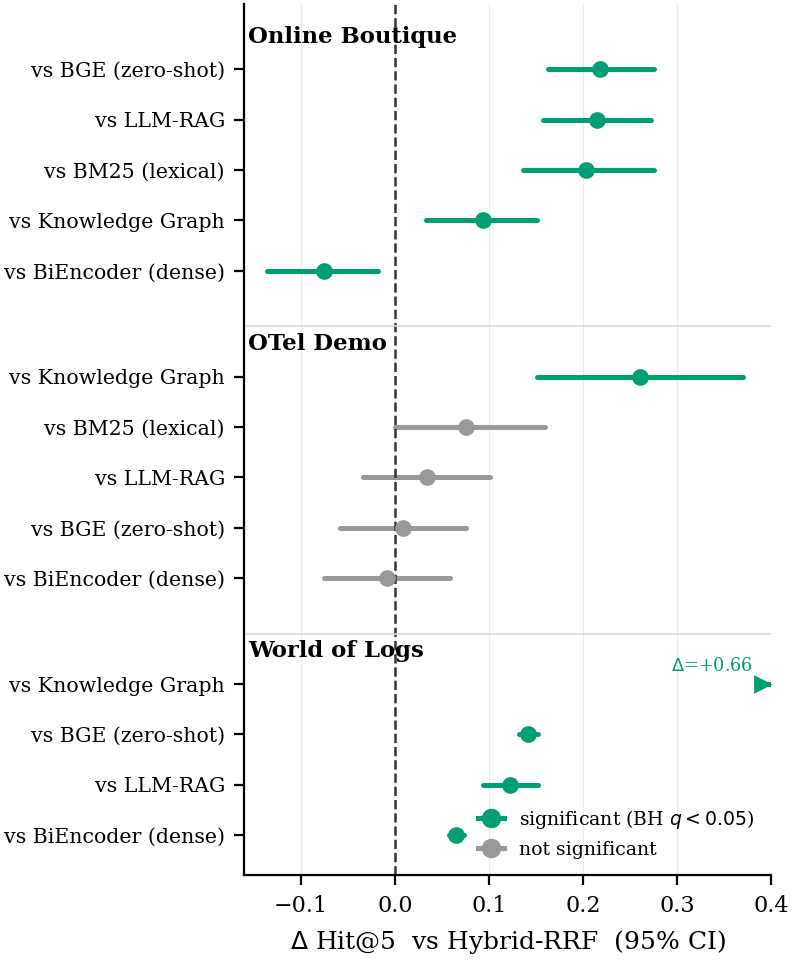
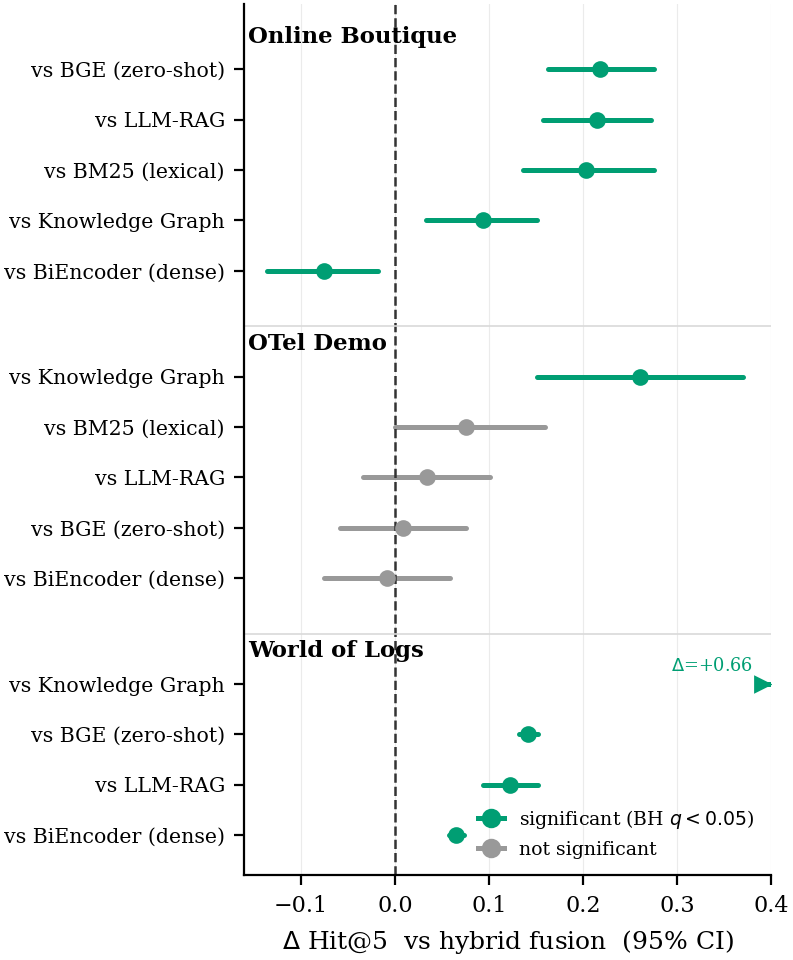
v2: concrete formalism, windowing rationale, training/inference, naming
R3's remaining clarity complaints.

"it's never clear where the incident comes from ... I assume it is a jira ticket"
-- it is, and the paper never said so. Section III now states what the objects
are before any notation: a memory item IS a resolved issue-tracker ticket (a
real Apache Jira Bug/Fixed issue on the real corpus, with its pasted log and
stack-trace blocks as the retrievable document), and a query is either a
five-minute telemetry slice or the incident report itself. The symbols d_j, E_j,
tau_j are now grounded in those objects.

"Why a windowed approach? Why not continuous?" -- answered: M_{<t} is already
continuous in t and nothing in retrieval depends on a window boundary. We window
because that is the granularity at which ground truth exists; a continuous
formulation would need continuous supervision we cannot obtain. Windowing is a
property of the evaluation, not of the method.

"Fine-tuning ... is it done per incident? is that learned network passed on to
the next?" -- no, and the paper was ambiguous. New paragraph states that all
learning is offline and once per dataset, the model is frozen for every test
query, and no state or gradients pass between incidents. Also separates what is
and is not deterministic, so the multi-seed treatment has a stated rationale
instead of a fixed-seed assertion.

Adds the seed-vs-sampling variance decomposition: the seed contributes ~1% of
variance on OTel Demo but ~a third on Online Boutique, where a query-resampling
[…]

Changed region(s): [[0.3632, 0.9688, 0.9382, 1.0]]

diff --git a/scripts/research-lab/make_paper_figures.py b/scripts/research-lab/make_paper_figures.py
@@ -113,8 +113,8 @@ def fig_significance_forest():
                 ha="left", va="center")
     ax.set_yticks(yt); ax.set_yticklabels(ytl, fontsize=7.4)
     ax.set_ylim(-0.8, y - 0.8); ax.set_xlim(xmin, xmax)
-    ax.set_xlabel(r"$\Delta$ \,Hit@5  vs Hybrid-RRF  (95\% CI)" if matplotlib.rcParams["text.usetex"]
-                  else r"$\Delta$ Hit@5  vs Hybrid-RRF  (95% CI)")
+    ax.set_xlabel(r"$\Delta$ \,Hit@5  vs hybrid fusion  (95\% CI)" if matplotlib.rcParams["text.usetex"]
+                  else r"$\Delta$ Hit@5  vs hybrid fusion  (95% CI)")
     ax.plot([], [], "o-", color=C["good"], lw=1.8, label="significant (BH $q<0.05$)")
     ax.plot([], [], "o-", color=C["prior"], lw=1.8, label="not significant")
     ax.legend(frameon=False, loc="lower right", fontsize=6.8, handlelength=1.4)
@@ -123,31 +123,60 @@ def fig_significance_forest():
 
 
 def fig_triage_reframing():
-    """The reframing (RQ4): classifier ROC-AUC is saturated on synthetic, exactly
-    at chance (0.50) on real data.
+    """The reframing (RQ4): triage classification is saturated on injected
+    telemetry and only weakly learnable on real ticket text.
 
-    We plot ROC-AUC, for which 0.5 is the correct no-skill baseline (the previous
-    version drew a 0.5 'chance' line under PR-AUC, whose no-skill baseline is the
-    positive prevalence, not 0.5). PR-AUC values are annotated for completeness.
+    The earlier version of this figure plotted the WoL numeric classifiers at
+    ROC-AUC 0.50 and drew a "chance" line under them. That comparison was void:
+    those classifiers were fitted on the 94 telemetry feature columns, which are
+    zero-filled for a text-only corpus, so 0.50 was forced by a constant design
+    matrix rather than measured. We now plot the telemetry classifier for the
+    synthetic datasets and the best TEXT classifier for World of Logs -- the
+    input each corpus actually has -- with its bootstrap CI.
     """
-    roc, pr = [], []
+    roc, pr, err, note = [], [], [], []
     for d in DS:
-        rep = _load(PR / "triage-leaderboard" / d / "report.json")
-        h = (rep or {}).get("headline", {}).get("hist_gradient_boosting_numeric", {})
-        roc.append(h.get("triage.roc_auc", np.nan))
-        pr.append(h.get("triage.pr_auc", np.nan))
+        if d == "wol-v3":
+            t = _load(Path("paper-results-v2") / "triage-text" / "wol-v3"
+                      / "wol-text-triage-paper.json")
+            if not t:
+                roc.append(np.nan); pr.append(np.nan); err.append(0.0); note.append("")
+                continue
+            models = {k: v for k, v in t["summary"].items() if k != "majority_baseline"}
+            best = max(models.items(), key=lambda kv: kv[1]["roc_auc"]["mean"])
+            m = best[1]
+            lo, hi = m["roc_auc"]["ci95"]
+            roc.append(m["roc_auc"]["mean"]); pr.append(m["pr_auc"]["mean"])
+            err.append((m["roc_auc"]["mean"] - lo, hi - m["roc_auc"]["mean"]))
+            note.append("text")
+        else:
+            rep = _load(PR / "triage-leaderboard" / d / "report.json")
+            h = (rep or {}).get("headline", {}).get("hist_gradient_boosting_numeric", {})
+            roc.append(h.get("triage.roc_auc", np.nan))
+            pr.append(h.get("triage.pr_auc", np.nan))
+            err.append((0.0, 0.0)); note.append("telemetry")
+
     fig, ax = plt.subplots(figsize=(3.3, 2.5))
     x = np.arange(len(DS))
-    colors = [C["ours"] if (v == v and v > 0.6) else C["bad"] for v in roc]
-    bars = ax.bar(x, roc, 0.58, color=colors, edgecolor="black", linewidth=0.3)
+    colors = [C["ours"] if (v == v and v > 0.8) else C["graph"] for v in roc]
+    ax.bar(x, roc, 0.58, color=colors, edgecolor="black", linewidth=0.3)
+    yerr = np.array([[e[0] for e in err], [e[1] for e in err]])
+    ax.errorbar(x, roc, yerr=yerr, fmt="none", ecolor=C["ink"],
+                elinewidth=0.9, capsize=3, capthick=0.9)
     ax.axhline(0.5, ls="--", lw=1.0, color=C["ink"])
-    ax.text(len(DS) - 1.5, 0.555, "chance (0.50)", color=C["ink"], fontsize=7,
-            va="bottom", ha="center")
-    for xi, (b, rv, pv) in enumerate(zip(bars, roc, pr)):
+    ax.text(-0.42, 0.515, "no skill (0.50)", color=C["ink"], fontsize=6.6,
+            va="bottom", ha="left")
+    for xi, (rv, pv, nt) in enumerate(zip(roc, pr, note)):
         if rv == rv:
-            ax.text(xi, rv + 0.015, f"{rv:.2f}", ha="center", fontsize=7.5, fontweight="bold")
+            ax.text(xi, rv + err[xi][1] + 0.02, f"{rv:.2f}", ha="center",
+                    fontsize=7.5, fontweight="bold")
         if pv == pv:
             ax.text(xi, 0.045, f"PR-AUC\n{pv:.2f}", ha="center", fontsize=6.3, color="0.25")
+        # Name the input each bar was computed from -- the whole point of the
+        # figure is that the real corpus has no telemetry to classify.
+        if nt:
+            ax.text(xi, 0.22, f"({nt})", ha="center", fontsize=6.4,
+                    color="0.95" if rv > 0.8 else "0.25", style="italic")
     ax.set_xticks(x); ax.set_xticklabels([NAME1[d] for d in DS], fontsize=7.8)
     ax.set_ylabel("triage classifier ROC-AUC"); ax.set_ylim(0, 1.08)
     ax.grid(axis="y", alpha=0.3, linewidth=0.4)

diff --git a/ICSE/sections/02-background.tex b/ICSE/sections/02-background.tex
@@ -11,6 +11,25 @@ The shortcut a seasoned engineer takes is \emph{recognition}: this pattern, a br
 Two characteristics of operational triage shape our design. First, the \emph{same incident can arrive with vastly different evidence}. The broker failure above may carry logs, metrics, traces, and cluster events; in another team's tracker the identical failure may be a single sentence (``consumers stalled after the broker restarted, backlog growing'') with no telemetry. Yet the task is identical: identify the most relevant resolved incident. A system that depends on complete observability fails precisely when historical knowledge is needed most. Second, an incident is \emph{not instantaneous}: it evolves over a sequence of windows, from early warning signs through active failure to recovery, so treating each window independently produces repeated alerts for one evolving incident.
 
 \smallskip
+\noindent\textbf{What an incident is, concretely.} Before introducing notation we
+state what the objects are, since the formalism is otherwise easy to read as
+abstract. \emph{A memory item is a resolved issue-tracker ticket} written by
+engineers in the course of their work. On our real corpus it is a genuine Apache
+Jira issue of type \textsc{Bug} with resolution \textsc{Fixed}; the retrievable
+document is its summary, description, and the log and stack-trace blocks its
+authors pasted into the thread, and there are $38{,}642$ of them. On our
+telemetry corpora it is a ticket generated from a deliberately injected fault's
+ground truth and rewritten into engineer prose, which is why the link from
+observation to ticket there is exact rather than inferred.
+
+\emph{A query is whatever the system is handed at decision time.} In an
+instrumented deployment that is a five-minute slice of one service's activity:
+its log lines, its CPU, memory and restart series, any firing alerts, the
+cluster's pod events, and a sample of distributed-trace spans. In a text-only
+deployment it is the incident report itself, with no telemetry at all. The task
+is identical in both cases, which is the point.
+
+\smallskip
 \noindent\textbf{Problem formulation.}
 We formulate incident triage as adaptive retrieval over a time-aware incident memory under heterogeneous evidence. Let
 $\mathcal{W}=\{w_1,\ldots,w_n\}$ denote a time-ordered stream of observation
@@ -30,7 +49,10 @@ m_j=(\mathbf{d}_j,\mathcal{E}_j,\tau_j)
 \]
 contains its textual description $\mathbf{d}_j$, a set of extracted entities
 $\mathcal{E}_j$ (e.g., services, components, error classes, and symptoms), and
-its resolution time $\tau_j$. To prevent temporal leakage, only incidents
+its resolution time $\tau_j$. Concretely, $\mathbf{d}_j$ is the ticket text
+described above, $\mathcal{E}_j$ is produced offline by a language model reading
+only that text (\S\ref{sec:approach-kg}), and $\tau_j$ is the issue's resolution
+timestamp. To prevent temporal leakage, only incidents
 resolved before the current observation are searchable; for a window observed at
 time $t_i$, the eligible memory is
 \[
@@ -40,3 +62,16 @@ time $t_i$, the eligible memory is
 In all evaluations, the query incident itself is removed from the searchable memory; for real Jira issues, the query time is the issue creation time and memory eligibility is determined by the candidate issue’s resolution time. Given a window $w_i$, the objective is to retrieve the top-$k$ most relevant
 historical incidents from $\mathcal{M}_{<t_i}$ while simultaneously deciding
 whether the window warrants an engineer page. Since consecutive windows often belong to the same operational event, the system must additionally associate related windows into one incident so that only one page is issued.
+
+\smallskip
+\noindent\textbf{Why windows.} Nothing in the formulation requires discretizing
+the stream: $\mathcal{M}_{<t}$ is defined continuously in $t$, and no part of the
+retrieval depends on where a window boundary falls. We window because that is the
+granularity at which \emph{ground truth exists}. A label states that a competent
+engineer would have opened an issue over some interval of activity, and our
+synthetic corpora are annotated per five-minute interval; a continuous
+formulation would need continuous supervision we cannot obtain. Windowing also
+matches how the alerting rules these datasets emulate are themselves evaluated,
+and it is what creates the duplicate-page problem the state layer exists to
+solve. The windowing is therefore a property of the evaluation, not a commitment
+of the method.

diff --git a/ICSE/sections/06-results.tex b/ICSE/sections/06-results.tex
@@ -70,7 +70,7 @@ pairwise comparison with its bootstrap confidence interval and significance.
 \begin{figure}[t]
 \centering
 \includegraphics[width=0.82\columnwidth]{figures/fig_significance_forest.png}
-\caption{Difference in \hit{5} between Hybrid-RRF and each alternative (paired
+\caption{Difference in \hit{5} between hybrid fusion and each alternative (paired
 bootstrap, $95\%$ CI; green = significant after Benjamini--Hochberg). Hybrid wins
 decisively on real data (WoL) and beats the graph baseline on every dataset; on
 the small synthetic corpora it ties or trails the fine-tuned dense retriever.}
@@ -189,12 +189,26 @@ whether the labelling rule leaks into the systems being compared. We find no
 evidence that it does.
 
 \smallskip
-\noindent The fine-tuned retriever's advantage is also stable across random seeds:
-retraining it under three seeds leaves coarse \hit{5} within a narrow band on both
-telemetry datasets (Online Boutique $0.632\pm0.015$, OTel Demo $0.678\pm0.004$;
-mean$\pm$std), so its lead over the zero-shot embedders is not an artifact of a
-lucky initialization. Only the costlier real-data retriever is trained once
-(\S\ref{sec:threats}).
+\noindent\textbf{How much does the training seed matter?} Retriever fine-tuning
+is the only stochastic step in the pipeline (\S\ref{sec:setup-protocol}), so we
+quantify its contribution rather than assume it away. Retraining under three
+seeds leaves coarse \hit{5} at $0.632\pm0.018$ on Online Boutique and
+$0.678\pm0.005$ on OTel Demo (mean $\pm$ sample standard deviation over the three
+runs), so the lead over the zero-shot embedders is not an artifact of a lucky
+initialization.
+
+It is worth decomposing that variability against the other source, which is
+sampling the test queries. On OTel Demo the seed standard deviation ($0.005$) is
+dwarfed by the query-bootstrap standard deviation ($0.043$), contributing about
+$1\%$ of the total variance; there, reporting a single run is defensible. On
+Online Boutique, however, the two are comparable ($0.018$ versus $0.026$) and the
+seed accounts for roughly a third of the variance, so an interval computed from
+query resampling alone understates the true uncertainty on that dataset. We
+report both components and note that the real corpus, which carries our main
+claims, is trained once (\S\ref{sec:threats}); its headline margin of $+0.065$
+\hit{5} over the dense retriever exceeds the largest full seed-to-seed range we
+observe anywhere ($0.036$) by a factor of $1.8$, which bounds but does not
+substitute for the multi-seed replication that corpus still needs.
 
 \subsection{RQ2: End-to-End Triage and Graceful Degradation}
 \label{sec:results-rq2}

diff --git a/ICSE/sections/05-setup.tex b/ICSE/sections/05-setup.tex
@@ -101,13 +101,28 @@ result, also the fraction of gold matches the judge rates highly
 easy negative; we treat this check as exploratory evidence that the labels carry
 signal, not as a substitute for human judgement.
 
-\noindent\emph{Implementation.} The dense retriever is a compact MiniLM
-bi-encoder fine-tuned for five epochs with hard negatives mined by lexical search;
-the hybrid fuses each retriever's top candidates by reciprocal rank fusion. Graph
-entities are extracted from tickets by a small language model and matched by
-entity overlap. The retrieval-augmented and judge models run offline with
-deterministic (greedy) decoding. Every experiment uses a fixed random seed, and
-full configurations and seeds are released with the artifact.
+\noindent\emph{What is trained, and when.} All learning happens \emph{offline and
+once per dataset}, strictly before evaluation; nothing is trained, adapted, or
+carried forward at incident time. Concretely: the dense retriever is a compact
+MiniLM bi-encoder fine-tuned for five epochs on the \emph{training} split's
+window--ticket pairs, with hard negatives mined by lexical search; it is then
+frozen, and every test query is served by that same frozen model. Graph entities
+are extracted from tickets by a small language model in a single offline indexing
+pass. At incident time the system only performs inference: embedding lookup,
+reciprocal rank fusion over the retrievers' candidates, and the gated
+language-model calls. No state, no gradients, and no learned parameters pass from
+one incident to the next.
+
+\noindent\emph{What is and is not deterministic.} Exactly one component is
+stochastic: fine-tuning the bi-encoder, which uses stochastic gradient descent on
+a GPU and is not bit-reproducible even at a fixed seed. Everything downstream is
+deterministic conditional on that trained model: nearest-neighbour scoring,
+reciprocal rank fusion, and a rule-based controller with no model-driven loop.
+The retrieval-augmented and judge models use greedy decoding at temperature zero,
+and the bootstrap is seeded. We therefore treat retriever training as the source
+of run-to-run variation and quantify it directly by retraining under multiple
+seeds (\S\ref{sec:results-rq1}), rather than relying on a fixed seed to stand in
+for repetition. Full configurations and seeds are released with the artifact.
 
 \noindent\emph{Compute environment.} All experiments ran on the Trillium cluster, administered by the Digital
 Research Alliance of Canada.\footnote{\url{https://alliancecan.ca}} Each training
